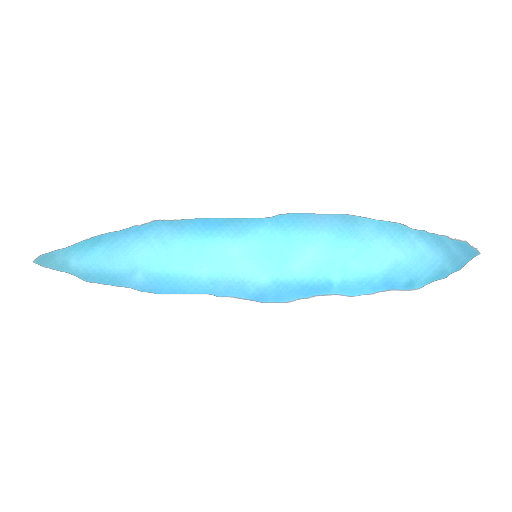
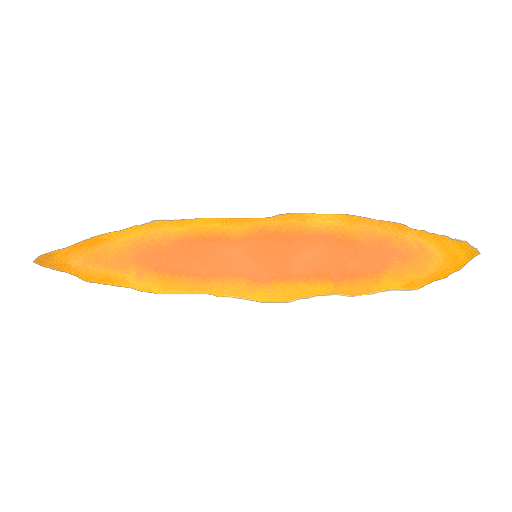
ダメージ時の衝撃波パーティクルの追加

Changed region(s): [[0.0625, 0.4062, 0.9375, 0.5938]]

diff --git a/Engine/Particle/Particle.cpp b/Engine/Particle/Particle.cpp
@@ -1,5 +1,7 @@
 #include "Particle.h"
 #include "Engine/Model/ModelManager.h"
+#include "Engine/GameObject/GameObjectManager.h"
+#include "Engine/GameObject/Core/Camera.h"
 
 void Particle::Init(DirectXDevice* device, SRV* srv, ID3D12GraphicsCommandList6* list, const ParticlePSO& pso, const std::string& filePath, const std::string& fileName, const float lifeTime, const bool isEndless, const bool enableLighting)
 {
@@ -60,11 +62,12 @@ void Particle::ExecuteInit()
 	cmdList_->SetPipelineState(pso_.init.GetState());
 
 	// パーティクルの初期化に必要なバッファをセットする
-	cmdList_->SetComputeRootConstantBufferView(0, emitterDataBuffer_->GetGPUView());
-	cmdList_->SetComputeRootConstantBufferView(2, infoDataBuffer_->GetGPUView());
-	cmdList_->SetComputeRootDescriptorTable(3, particleBuffer_->GetUAVView());
-	cmdList_->SetComputeRootDescriptorTable(4, freeIndexBuffer_->GetUAVView());
-	cmdList_->SetComputeRootDescriptorTable(5, freeIndexListBuffer_->GetUAVView());
+	cmdList_->SetComputeRootConstantBufferView(0, GameObjectManager::GetInstance()->GetUseCamera()->GetParticleCameraDataBufferView());
+	cmdList_->SetComputeRootConstantBufferView(1, emitterDataBuffer_->GetGPUView());
+	cmdList_->SetComputeRootConstantBufferView(3, infoDataBuffer_->GetGPUView());
+	cmdList_->SetComputeRootDescriptorTable(4, particleBuffer_->GetUAVView());
+	cmdList_->SetComputeRootDescriptorTable(5, freeIndexBuffer_->GetUAVView());
+	cmdList_->SetComputeRootDescriptorTable(6, freeIndexListBuffer_->GetUAVView());
 
 	// パーティクルの初期化を実行する
 	cmdList_->Dispatch(kMaxParticleCount_, 1, 1);
@@ -82,11 +85,12 @@ void Particle::Update()
 	cmdList_->SetPipelineState(pso_.emit.GetState());
 
 	// パーティクルの生成に必要なバッファをセットする
-	cmdList_->SetComputeRootConstantBufferView(0, emitterDataBuffer_->GetGPUView());
-	cmdList_->SetComputeRootConstantBufferView(2, infoDataBuffer_->GetGPUView());
-	cmdList_->SetComputeRootDescriptorTable(3, particleBuffer_->GetUAVView());
-	cmdList_->SetComputeRootDescriptorTable(4, freeIndexBuffer_->GetUAVView());
-	cmdList_->SetComputeRootDescriptorTable(5, freeIndexListBuffer_->GetUAVView());
+	cmdList_->SetComputeRootConstantBufferView(0, GameObjectManager::GetInstance()->GetUseCamera()->GetParticleCameraDataBufferView());
+	cmdList_->SetComputeRootConstantBufferView(1, emitterDataBuffer_->GetGPUView());
+	cmdList_->SetComputeRootConstantBufferView(3, infoDataBuffer_->GetGPUView());
+	cmdList_->SetComputeRootDescriptorTable(4, particleBuffer_->GetUAVView());
+	cmdList_->SetComputeRootDescriptorTable(5, freeIndexBuffer_->GetUAVView());
+	cmdList_->SetComputeRootDescriptorTable(6, freeIndexListBuffer_->GetUAVView());
 
 	// パーティクルの生成を実行する
 	cmdList_->Dispatch(1, 1, 1);
@@ -122,11 +126,12 @@ void Particle::Update()
 	cmdList_->SetPipelineState(pso_.update.GetState());
 
 	// パーティクルの更新に必要なバッファをセットする
-	cmdList_->SetComputeRootConstantBufferView(0, emitterDataBuffer_->GetGPUView());
-	cmdList_->SetComputeRootConstantBufferView(2, infoDataBuffer_->GetGPUView());
-	cmdList_->SetComputeRootDescriptorTable(3, particleBuffer_->GetUAVView());
-	cmdList_->SetComputeRootDescriptorTable(4, freeIndexBuffer_->GetUAVView());
-	cmdList_->SetComputeRootDescriptorTable(5, freeIndexListBuffer_->GetUAVView());
+	cmdList_->SetComputeRootConstantBufferView(0, GameObjectManager::GetInstance()->GetUseCamera()->GetParticleCameraDataBufferView());
+	cmdList_->SetComputeRootConstantBufferView(1, emitterDataBuffer_->GetGPUView());
+	cmdList_->SetComputeRootConstantBufferView(3, infoDataBuffer_->GetGPUView());
+	cmdList_->SetComputeRootDescriptorTable(4, particleBuffer_->GetUAVView());
+	cmdList_->SetComputeRootDescriptorTable(5, freeIndexBuffer_->GetUAVView());
+	cmdList_->SetComputeRootDescriptorTable(6, freeIndexListBuffer_->GetUAVView());
 
 	// パーティクルの更新を実行する
 	cmdList_->Dispatch(kMaxParticleCount_, 1, 1);

diff --git a/App/GameObject/User/Enemy/EnemyBullet.cpp b/App/GameObject/User/Enemy/EnemyBullet.cpp
@@ -102,7 +102,7 @@ void EnemyBullet::OnCollisionEnter(Collider* collider)
 
 		// 命中破片パーティクル再生
 		Particle* hitDebris = ParticleManager::GetInstance()->CreateNewParticle("HitDebris", "./Engine/Resource/Samples/Plane", "Plane.obj", 1.0f);
-		hitDebris->model_->materials_[1].tex_ = TextureManager::Load("HitDebrisEffect.png");
+		hitDebris->model_->materials_[1].tex_ = TextureManager::Load("BulletHitDebrisEffect.png");
 		hitDebris->model_->materials_[1].enableLighting_ = false;
 		hitDebris->transform_.translate_ = transform_.translate_;
 		hitDebris->emitterDataBuffer_->data_->count = 10;
@@ -127,7 +127,7 @@ void EnemyBullet::OnCollisionEnter(Collider* collider)
 
 		// 命中破片パーティクル再生
 		Particle* hitDebris = ParticleManager::GetInstance()->CreateNewParticle("HitDebris", "./Engine/Resource/Samples/Plane", "Plane.obj", 1.0f);
-		hitDebris->model_->materials_[1].tex_ = TextureManager::Load("HitDebrisEffect.png");
+		hitDebris->model_->materials_[1].tex_ = TextureManager::Load("BulletHitDebrisEffect.png");
 		hitDebris->model_->materials_[1].enableLighting_ = false;
 		hitDebris->transform_.translate_ = transform_.translate_;
 		hitDebris->emitterDataBuffer_->data_->count = 10;
@@ -142,12 +142,22 @@ void EnemyBullet::OnCollisionEnter(Collider* collider)
 		if (collider->GetColliderName() == "PlayerCollider") {
 			// 命中パーティクル再生
 			Particle* hit = ParticleManager::GetInstance()->CreateNewParticle("EnemyHit", "./Engine/Resource/Samples/Plane", "Plane.obj", 0.5f);
-			hit->model_->materials_[1].tex_ = TextureManager::Load("HitEffect.png");
+			hit->model_->materials_[1].tex_ = TextureManager::Load("BulletHitEffect.png");
 			hit->model_->materials_[1].enableLighting_ = false;
 			hit->transform_.translate_ = transform_.translate_;
 			hit->emitterDataBuffer_->data_->count = 1;
 			hit->emitterDataBuffer_->data_->frequency = 1.0f;
 			hit->emitterDataBuffer_->data_->frequencyTime = 3.0f;
+			
+			// 命中破片パーティクル再生
+			Particle* hitDebris = ParticleManager::GetInstance()->CreateNewParticle("HitDebris", "./Engine/Resource/Samples/Plane", "Plane.obj", 1.0f);
+			hitDebris->model_->materials_[1].tex_ = TextureManager::Load("BulletHitDebrisEffect.png");
+			hitDebris->model_->materials_[1].enableLighting_ = false;
+			hitDebris->transform_.translate_ = transform_.translate_;
+			hitDebris->emitterDataBuffer_->data_->count = 10;
+			hitDebris->emitterDataBuffer_->data_->frequency = 3.0f;
+			hitDebris->emitterDataBuffer_->data_->frequencyTime = 5.0f;
+			
 			// プレイヤーを取得
 			Player* p = GameObjectManager::GetInstance()->GetGameObject<Player>("Player");
 			// ダメージ処理を行う

diff --git a/Engine/Particle/ParticleManager.cpp b/Engine/Particle/ParticleManager.cpp
@@ -15,12 +15,14 @@ ParticleManager& ParticleManager::Init()
 
 	// シグネチャの初期化
 	root_.Init();
-	// エミッタデータ用パラメータ生成
+	// パーティクル用カメラデータ用パラメータ生成
 	root_.CreateCBVParameter(0, D3D12_SHADER_VISIBILITY_ALL);
-	// フレーム時間計測用パラメータ生成
+	// エミッタデータ用パラメータ生成
 	root_.CreateCBVParameter(1, D3D12_SHADER_VISIBILITY_ALL);
-	// 情報用パラメータ生成
+	// フレーム時間計測用パラメータ生成
 	root_.CreateCBVParameter(2, D3D12_SHADER_VISIBILITY_ALL);
+	// 情報用パラメータ生成
+	root_.CreateCBVParameter(3, D3D12_SHADER_VISIBILITY_ALL);
 	// パーティクルデータ用パラメータ生成
 	root_.CreateDescriptorTableParameter(0, D3D12_SHADER_VISIBILITY_ALL, D3D12_DESCRIPTOR_RANGE_TYPE_UAV);
 	// 使用可能番号用パラメータ生成
@@ -77,13 +79,13 @@ void ParticleManager::Update()
 		// 初期化処理
 		if (!p->GetIsInit()) {
 			// フレーム時間計測用バッファをコマンドリストにセットする
-			cmdList_->SetComputeRootConstantBufferView(1, perFrameDataBuffer_->GetGPUView());
+			cmdList_->SetComputeRootConstantBufferView(2, perFrameDataBuffer_->GetGPUView());
 			// 初期化実行
 			p->ExecuteInit();
 		}
 
 		// フレーム時間計測用バッファをコマンドリストにセットする
-		cmdList_->SetComputeRootConstantBufferView(1, perFrameDataBuffer_->GetGPUView());
+		cmdList_->SetComputeRootConstantBufferView(2, perFrameDataBuffer_->GetGPUView());
 		// 更新処理
 		p->Update();
 	}

diff --git a/Engine/GameObject/Core/Camera.h b/Engine/GameObject/Core/Camera.h
@@ -23,6 +23,13 @@ struct CameraData {
 };
 
 /// <summary>
+/// パーティクル用カメラデータ構造体
+/// </summary>
+struct ParticleCameraData {
+	Matrix4x4 ViewMatrix; // ビュー行列
+};
+
+/// <summary>
 /// カメラ
 /// </summary>
 class Camera : public IObject
@@ -82,6 +89,12 @@ public: // アクセッサ等
 	D3D12_GPU_VIRTUAL_ADDRESS GetCameraDataBufferView() { return cameraDataBuffer_.GetGPUView(); }
 
 	/// <summary>
+	/// パーティクル用カメラデータまでのアドレスゲッター
+	/// </summary>
+	/// <returns>カメラデータまでのアドレス</returns>
+	D3D12_GPU_VIRTUAL_ADDRESS GetParticleCameraDataBufferView() { return pCameraDataBuffer_.GetGPUView(); }
+
+	/// <summary>
 	/// レンダリング予定リソースのゲッター
 	/// </summary>
 	/// <returns>レンダリング予定リソース</returns>
@@ -115,6 +128,7 @@ protected: // メンバ変数
 
 	// 定数バッファデータ
 	ConstantBuffer<CameraData> cameraDataBuffer_;			// カメラデータ
+	ConstantBuffer<ParticleCameraData> pCameraDataBuffer_;  // パーティクル用カメラデータ
 
 	// レンダリングを行うリソース
 	RenderResource renderResource_;

diff --git a/Engine/GameObject/Core/Camera.cpp b/Engine/GameObject/Core/Camera.cpp
@@ -18,11 +18,13 @@ void Camera::Init()
 
 	// 定数バッファ生成
 	cameraDataBuffer_.Init(device);
+	pCameraDataBuffer_.Init(device);
 	// データに値を代入
 	cameraDataBuffer_.data_->DrawMeshlets = isDrawMeshlets_;
 	cameraDataBuffer_.data_->ViewProjection2D = Matrix4x4::MakeOrthGraphic(0.0f, 0.0f, (float)KEngine::Config::Window::KWindowWidth, (float)KEngine::Config::Window::KWindowHeight, 0.0f, 100.0f);
 	cameraDataBuffer_.data_->ToonMapTex = TextureManager::Load("./Engine/Resource/Samples/Texture", "ToonMap.png").GetView();
 	cameraDataBuffer_.data_->ToonMapTex -= KEngine::Config::Rendering::kMaxBuffer;
+	pCameraDataBuffer_.data_->ViewMatrix = viewMatrix_;
 
 	// 各リソース初期化
 	renderResource_.Init(device, heaps);  // レンダリングを行うリソース
@@ -70,6 +72,7 @@ void Camera::Update()
 		cameraDataBuffer_.data_->Billboard		= billboardMatrix;
 		cameraDataBuffer_.data_->WorldPosition	= transform_.GetWorldPos();
 		cameraDataBuffer_.data_->DrawMeshlets	= isDrawMeshlets_;
+		pCameraDataBuffer_.data_->ViewMatrix = viewMatrix_;
 
 		// ポストプロセスの更新
 		ppProcessor_.Update();

diff --git a/App/GameObject/User/Enemy/Enemy.cpp b/App/GameObject/User/Enemy/Enemy.cpp
@@ -383,6 +383,15 @@ void Enemy::OnCollision(Collider* collider)
 			hit->emitterDataBuffer_->data_->frequency = 1.0f;
 			hit->emitterDataBuffer_->data_->frequencyTime = 3.0f;
 
+			// 命中破片パーティクル再生
+			Particle* hitDebris = ParticleManager::GetInstance()->CreateNewParticle("HitDebris", "./Engine/Resource/Samples/Plane", "Plane.obj", 1.0f);
+			hitDebris->model_->materials_[1].tex_ = TextureManager::Load("HitDebrisEffect.png");
+			hitDebris->model_->materials_[1].enableLighting_ = false;
+			hitDebris->transform_.translate_ = transform_.translate_;
+			hitDebris->emitterDataBuffer_->data_->count = 10;
+			hitDebris->emitterDataBuffer_->data_->frequency = 3.0f;
+			hitDebris->emitterDataBuffer_->data_->frequencyTime = 5.0f;
+
 			// ダメージ効果音の再生
 			Audio::GetInstance()->PlayWave(damageSound_);
 		}
